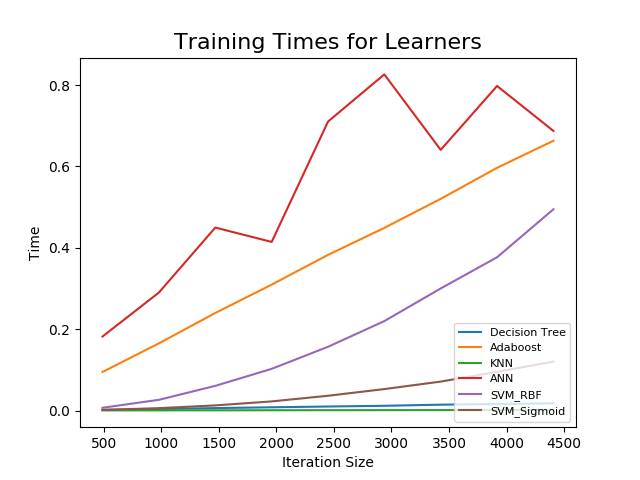
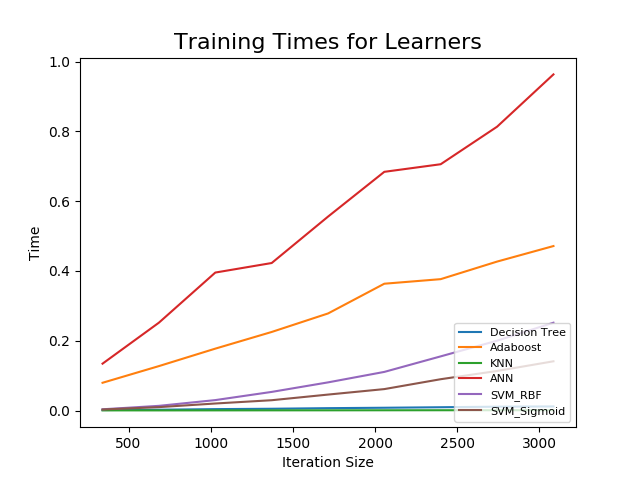
fixed timing

diff --git a/winemaster.py b/winemaster.py
@@ -604,6 +604,7 @@ def main():
     svm_sigmoid_clf = svm.SVC(kernel='sigmoid', gamma=0.51, C=0.01)
     labels = ["Decision Tree", "Adaboost", "KNN", "ANN", "SVM_RBF", "SVM_Sigmoid"]
     count = 0
+
     for clf in [dt_clf,ada_clf,knn_clf, ann_clf, svm_rbf_clf, svm_sigmoid_clf]:
         iteration_array = []
         train_array = []
@@ -615,18 +616,14 @@ def main():
                 clf = svm.SVC(kernel='rbf', gamma=1.31, C=0.91)
             if count == 5:
                 clf = svm.SVC(kernel='sigmoid', gamma=0.51, C=0.01)
-            X_train, X_test, y_train, y_test = train_test_split(X, Y, test_size=i, random_state=seed)
+            X_train = training_x[:int(training_x.shape[0]*i),:]
+            Y_train = training_y[:int(training_y.shape[0]*i)]
             iteration_array.append(X_train.shape[0])
             st = time.clock()
-            clf.fit(X_train, y_train)
+            clf.fit(X_train, Y_train)
             train_time = time.clock() - st
             train_array.append(train_time)
-            # st = time.clock()
-            # clf.predict(X_test)
-            # query_time = time.clock() - st
-            # query_array.append(query_time)
         plt.plot(iteration_array, train_array, label=labels[count])
-        # plt.plot(iteration_array, query_array, label=str(clf) + 'Query Time')
         plt.legend(loc=4, fontsize=8)
         plt.title("Training Times for Learners", fontdict={'size': 16})
         plt.ylabel("Time")
@@ -647,26 +644,15 @@ def main():
     count = 0
     for clf in [dt_clf, ada_clf, knn_clf, ann_clf, svm_rbf_clf, svm_sigmoid_clf]:
         iteration_array = []
-        train_array = []
         query_array = []
+        clf.fit(training_x,training_y)
         for i in [0.1, 0.2, 0.3, 0.4, 0.5, 0.6, 0.7, 0.8, 0.9]:
-            if count == 3:
-                clf = MLPClassifier(hidden_layer_sizes=(22,), alpha=0.0051, activation='relu')
-            if count == 4:
-                clf = svm.SVC(kernel='rbf', gamma=1.31, C=0.91)
-            if count == 5:
-                clf = svm.SVC(kernel='sigmoid', gamma=0.51, C=0.01)
-            X_train, X_test, y_train, y_test = train_test_split(X, Y, test_size=i, random_state=seed)
-            iteration_array.append(X_train.shape[0])
-            st = time.clock()
-            clf.fit(X_train, y_train)
-            train_time = time.clock() - st
-            train_array.append(train_time)
+            X_test = testing_x[:int(testing_x.shape[0]*i),:]
+            iteration_array.append(X_test.shape[0])
             st = time.clock()
             clf.predict(X_test)
             query_time = time.clock() - st
             query_array.append(query_time)
-        #plt.plot(iteration_array, train_array, label=labels[count])
         plt.plot(iteration_array, query_array, label=labels[count])
         plt.legend(loc=4, fontsize=8)
         plt.title("Query Times for Learners", fontdict={'size': 16})

diff --git a/pendigitsmaster.py b/pendigitsmaster.py
@@ -763,18 +763,14 @@ def main():
                 clf = svm.SVC(kernel='rbf', gamma=0.21, C=0.71)
             if count == 5:
                 clf = svm.SVC(kernel='sigmoid', gamma=0.01, C=0.51)
-            X_train, X_test, y_train, y_test = train_test_split(X, Y, test_size=i, random_state=42)
+            X_train = training_x[:int(training_x.shape[0] * i), :]
+            Y_train = training_y[:int(training_y.shape[0] * i)]
             iteration_array.append(X_train.shape[0])
             st = time.clock()
-            clf.fit(X_train, y_train)
+            clf.fit(X_train, Y_train)
             train_time = time.clock() - st
             train_array.append(train_time)
-            # st = time.clock()
-            # clf.predict(X_test)
-            # query_time = time.clock() - st
-            # query_array.append(query_time)
         plt.plot(iteration_array, train_array, label=labels[count])
-        # plt.plot(iteration_array, query_array, label=str(clf) + 'Query Time')
         plt.legend(loc=4, fontsize=8)
         plt.title("Training Times for Learners", fontdict={'size': 16})
         plt.ylabel("Time")
@@ -797,24 +793,14 @@ def main():
         iteration_array = []
         train_array = []
         query_array = []
+        clf.fit(training_x, training_y)
         for i in [0.1, 0.2, 0.3, 0.4, 0.5, 0.6, 0.7, 0.8, 0.9]:
-            if count == 3:
-                clf = MLPClassifier(hidden_layer_sizes=(16,), alpha=0.0041, activation='relu')
-            if count == 4:
-                clf = svm.SVC(kernel='rbf', gamma=0.21, C=0.71)
-            if count == 5:
-                clf = svm.SVC(kernel='sigmoid', gamma=0.01, C=0.51)
-            X_train, X_test, y_train, y_test = train_test_split(X, Y, test_size=i, random_state=42)
-            iteration_array.append(X_train.shape[0])
-            st = time.clock()
-            clf.fit(X_train, y_train)
-            train_time = time.clock() - st
-            train_array.append(train_time)
+            X_test = testing_x[:int(testing_x.shape[0] * i), :]
+            iteration_array.append(X_test.shape[0])
             st = time.clock()
             clf.predict(X_test)
             query_time = time.clock() - st
             query_array.append(query_time)
-        # plt.plot(iteration_array, train_array, label=labels[count])
         plt.plot(iteration_array, query_array, label=labels[count])
         plt.legend(loc=4, fontsize=8)
         plt.title("Query Times for Learners", fontdict={'size': 16})
@@ -823,8 +809,6 @@ def main():
         count = count + 1
     plt.savefig("PenDigitsQueryTimes.png")
     plt.close()
-
-
 
 def plot_validation_curve(param_array,training_array,cross_val_array,title,y, x, limit,file):
     plt.plot(param_array, training_array, label='Training')
